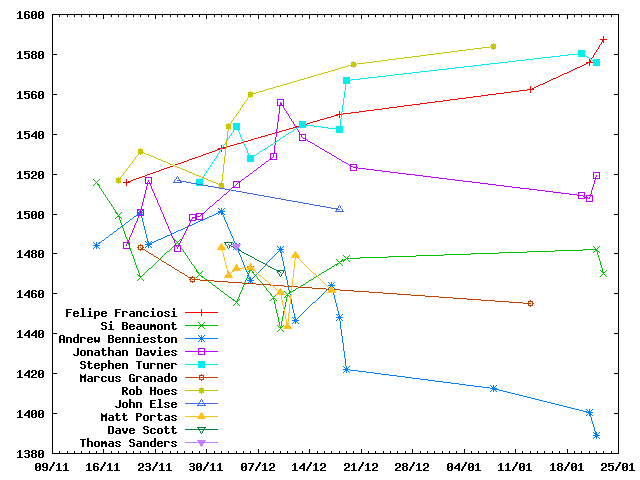
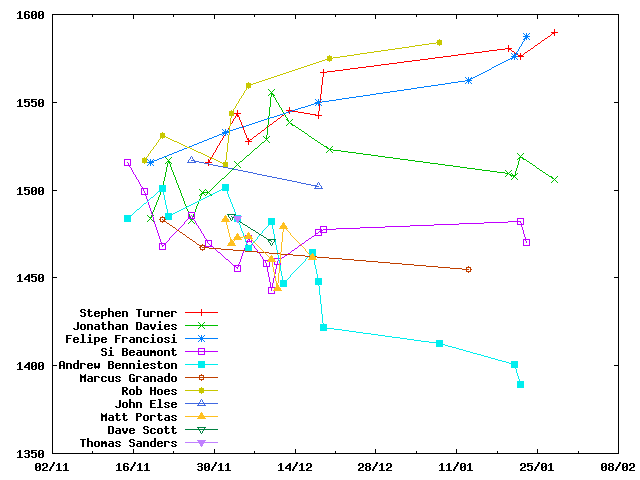
Travis build 86 pushed to gh-pages

diff --git a/index.md b/index.md
@@ -3,10 +3,10 @@ layout: default
 ---
 # XenServer Chess Ladder
 ### Ladder
-     1.  Felipe Franciosi                   1587  (6 / 6)
-     2.  Rob Hoes                           1584  (7 / 8)
-     3.  Stephen Turner                     1576  (8.5 / 11)
-     4.  Jonathan Davies                    1519  (10 / 18)
+     1.  Stephen Turner                     1589  (9.5 / 12)
+     2.  Felipe Franciosi                   1587  (6 / 6)
+     3.  Rob Hoes                           1584  (7 / 8)
+     4.  Jonathan Davies                    1505  (10 / 19)
      5.  John Else                          1502  (1 / 2)
      6.  Thomas Sanders                     1483  (0 / 1)
      7.  Dave Scott                         1470  (0 / 2)
@@ -15,6 +15,7 @@ layout: default
     10.  Marcus Granado                     1454  (0 / 3)
     11.  Andrew Bennieston                  1389  (5 / 18)
 ### Games
+    2014-01-28:      Jonathan Davies - Stephen Turner            0 - 1
     2014-01-23:          Si Beaumont - Felipe Franciosi          0 - 1
     2014-01-22:      Jonathan Davies - Andrew Bennieston         1 - 0
     2014-01-22:          Si Beaumont - Stephen Turner          0.5 - 0.5
